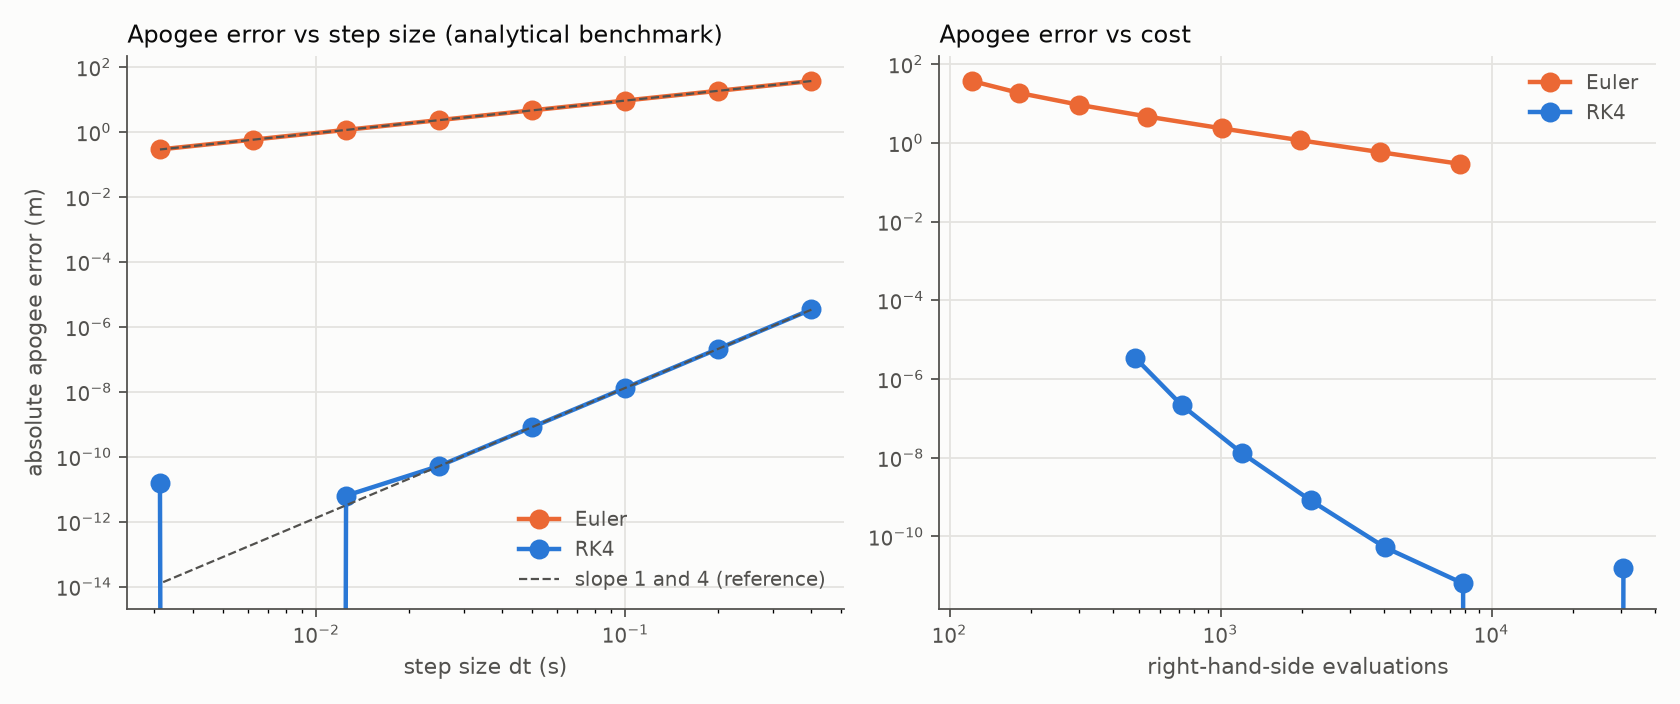
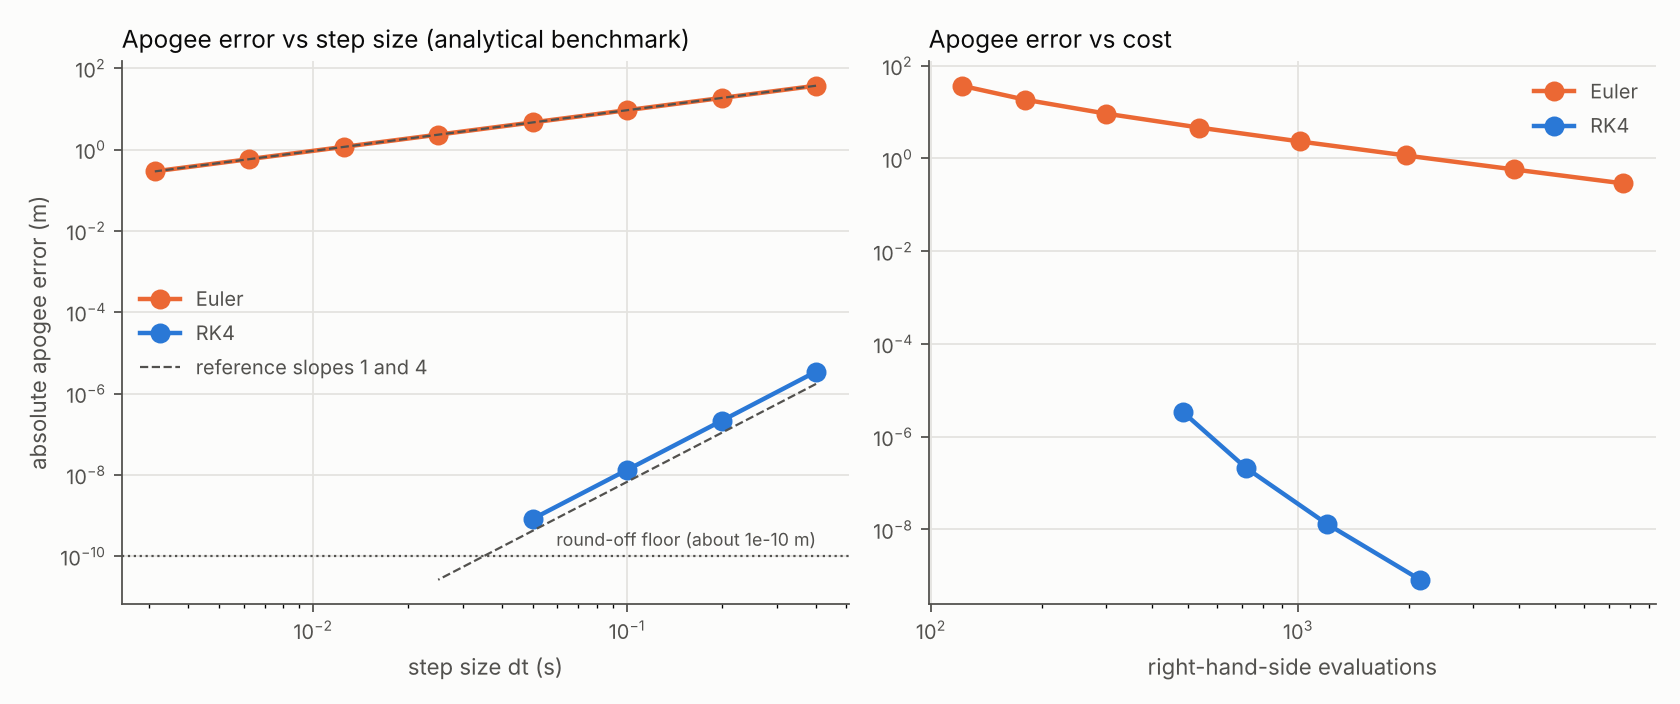
Hide round-off points in the verification figure and mark the floor
RK4 errors at or below ~1e-10 m are floating-point round-off; a log axis
cannot show zero, so they drew vertical lines to the axis. Points below
the floor are now dropped, the floor is marked, and the legend no longer
overlaps the data.

Claude-Session: https://claude.ai/code/session_01ADB5L3A2oiioii8sHX1k2J

diff --git a/src/main.py b/src/main.py
@@ -153,19 +153,28 @@ def run_verification(plt, figdir):
 
     if plt is not None:
         fig, (ax1, ax2) = new_figure(plt, 2, 10.5, 4.4)
+        floor = 1e-10           # below this the error is floating-point round-off
         for name, color in (('Euler', ORANGE), ('RK4', BLUE)):
-            ax1.loglog(dts, out[name]['errs'], '-o', color=color, lw=2, ms=8, label=name)
-            ax2.loglog(out[name]['evals'], out[name]['errs'], '-o', color=color,
+            e = np.array(out[name]['errs'])
+            keep = e > floor    # drop round-off points (a log axis cannot show 0)
+            ax1.loglog(np.array(dts)[keep], e[keep], '-o', color=color, lw=2, ms=8,
+                       label=name)
+            ax2.loglog(np.array(out[name]['evals'])[keep], e[keep], '-o', color=color,
                        lw=2, ms=8, label=name)
         dref = np.array([dts[0], dts[-1]])
         ax1.loglog(dref, out['Euler']['errs'][0] * (dref / dts[0]), '--', color=INK2,
-                   lw=1, label='slope 1 and 4 (reference)')
-        ax1.loglog(dref, out['RK4']['errs'][2] * (dref / dts[2])**4, '--', color=INK2, lw=1)
+                   lw=1, label='reference slopes 1 and 4')
+        dref4 = np.array([dts[0], dts[4]])
+        ax1.loglog(dref4, 0.5 * out['RK4']['errs'][0] * (dref4 / dts[0])**4, '--',
+                   color=INK2, lw=1)
+        ax1.axhline(floor, ls=':', color=INK2, lw=1)
+        ax1.text(dts[0], floor * 1.8, 'round-off floor (about 1e-10 m)', fontsize=8,
+                 color=INK2, ha='right')
         style_axes(ax1, 'Apogee error vs step size (analytical benchmark)',
                    'step size dt (s)', 'absolute apogee error (m)')
         style_axes(ax2, 'Apogee error vs cost', 'right-hand-side evaluations', None)
-        for ax in (ax1, ax2):
-            ax.legend(frameon=False, fontsize=9, labelcolor=INK2)
+        ax1.legend(frameon=False, fontsize=9, labelcolor=INK2, loc='center left')
+        ax2.legend(frameon=False, fontsize=9, labelcolor=INK2, loc='upper right')
         fig.tight_layout()
         fig.savefig(figdir / 'fig1_verification.png', dpi=160, facecolor=SURFACE)
         plt.close(fig)
